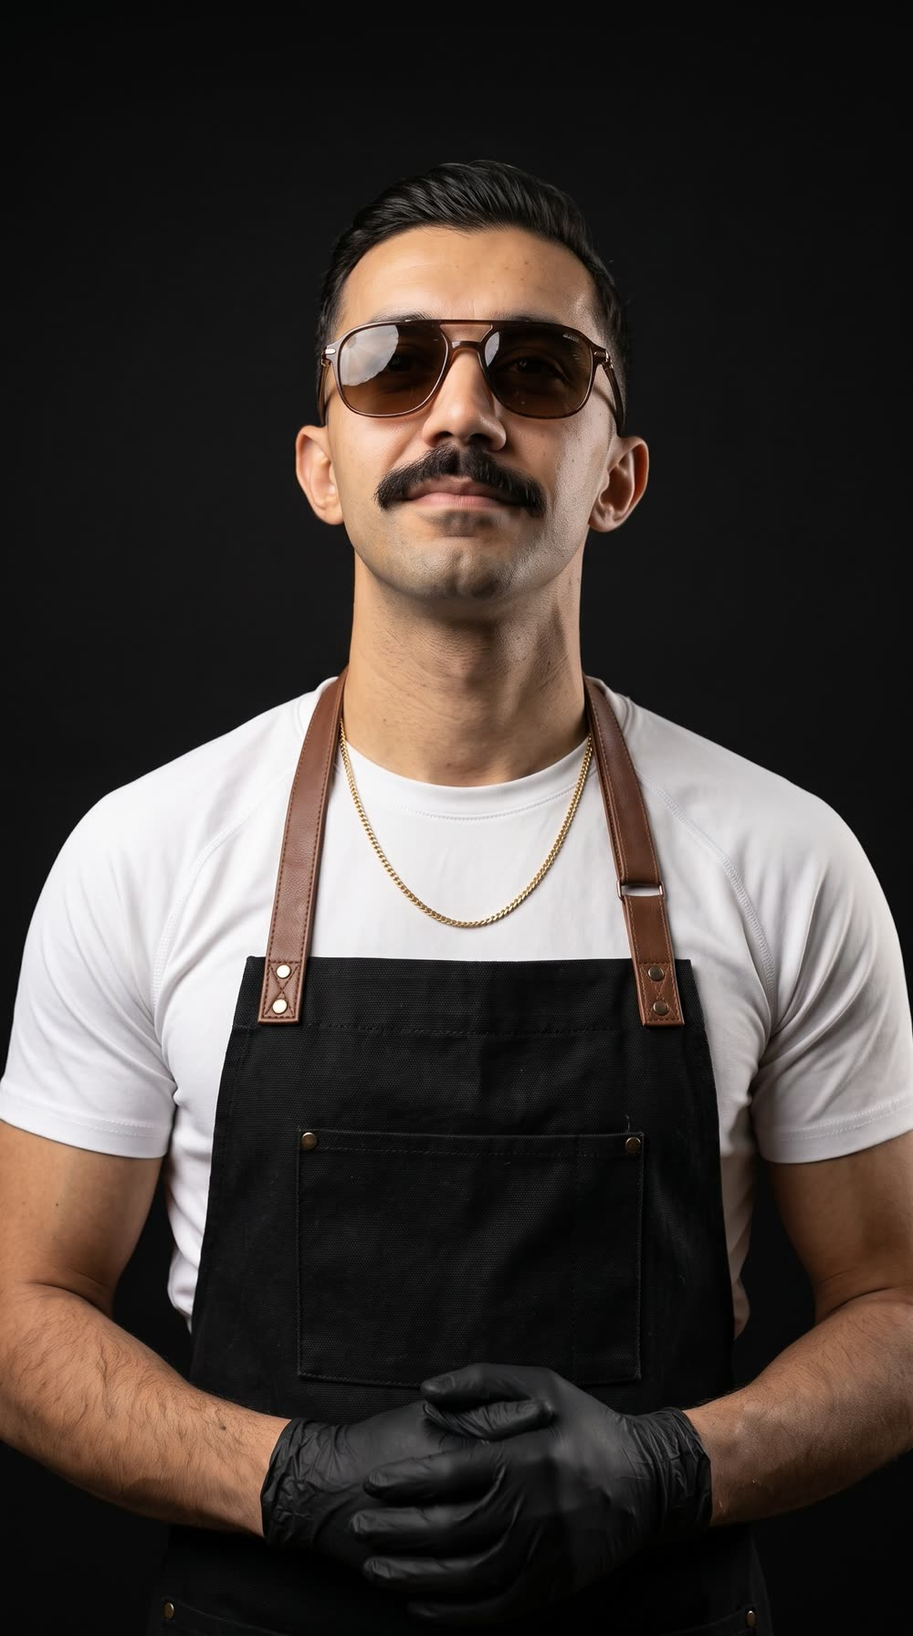
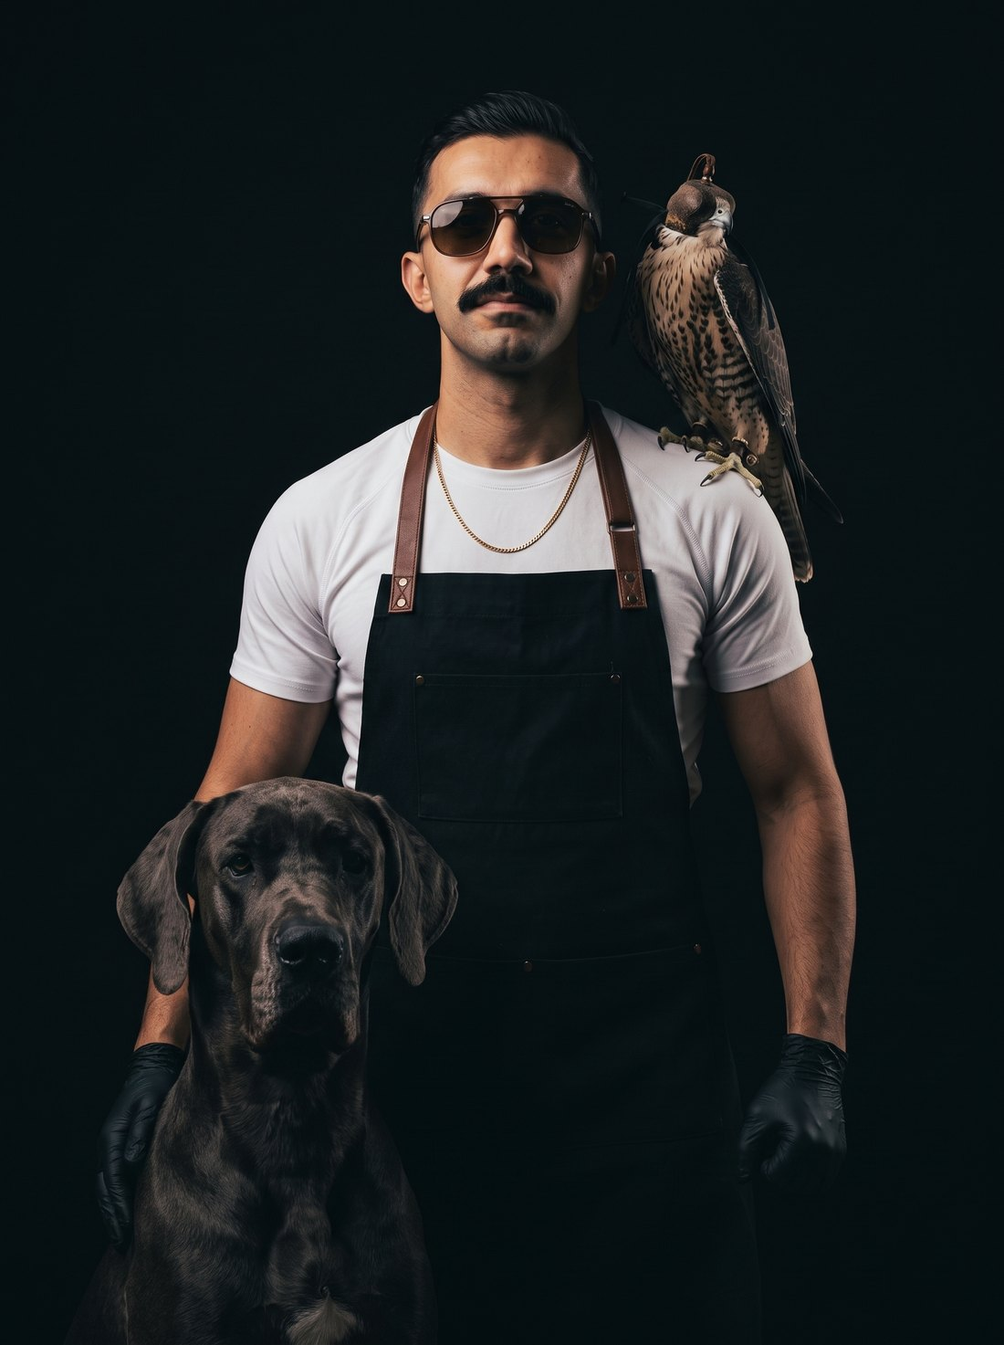
Sell the book with pages from the book
The product carried four plate photographs and a stock cover. A buyer
weighing up a cookbook wants to see a page — the type, the layout, how a
recipe is actually laid out — so the gallery is now five real spreads
rendered out of the PDF: the cover, a main dish, the contents, a side
dish, and the frontispiece.

The chef's portrait was hidden below lg, which left a bare band of
statistics between the headline and the trust row on the phone, where
most of the traffic is. It now shows everywhere, with the new portrait
and a line that says who he is, sitting under the photo on a phone and
over it from sm up.

Counts go to 264 + 100 free, and the format line drops its promise of
EPUB and Arabic: what ships is an English PDF in two editions.

Claude-Session: https://claude.ai/code/session_01TTQeKAFA689qdG4vjzm6Ms

diff --git a/src/i18n/dictionary.ts b/src/i18n/dictionary.ts
@@ -25,14 +25,19 @@ export const dictionary = {
   "hero.title.line1": { ar: "فنّ الطبق", en: "The Art of" },
   "hero.title.line2": { ar: "الاحترافي", en: "The Plate" },
   "hero.subtitle": {
-    ar: "٢٦٠ وصفة مُنسَّقة بعناية، مصوَّرة ومشروحة خطوة بخطوة، من مطبخ محترف إلى مطبخك.",
-    en: "260 curated recipes, photographed and broken down step by step — from a professional kitchen to yours.",
+    ar: "٢٦٤ وصفة مُنسَّقة بعناية، مصوَّرة ومشروحة خطوة بخطوة، من مطبخ محترف إلى مطبخك.",
+    en: "264 curated recipes, photographed and broken down step by step — from a professional kitchen to yours.",
   },
   "hero.cta.primary": { ar: "احصل على النسخة", en: "Get the Codex" },
   "hero.cta.secondary": { ar: "تصفّح المتجر", en: "Browse the Shop" },
   "hero.stat.recipes": { ar: "وصفة منسّقة", en: "Curated recipes" },
   "hero.stat.bonus": { ar: "وصفة سريعة مجاناً", en: "Free quick meals" },
   "hero.stat.readers": { ar: "قارئ حول العالم", en: "Readers worldwide" },
+  "hero.portrait.line": {
+    ar: "كتبتُ ٣٦٤ وصفة كما أطبخها فعلاً — لا كما تُكتب في الكتب.",
+    en: "I wrote 364 recipes the way I actually cook them — not the way books write them.",
+  },
+  "hero.portrait.brand": { ar: "مؤسّس ذا إديبل كودكس · عمّان", en: "Founder of The Edible Codex · Amman" },
   "hero.scroll": { ar: "تابع النزول", en: "Scroll" },
 
   /* ── Value props ── */
@@ -66,10 +71,10 @@ export const dictionary = {
   "featured.eyebrow": { ar: "الإصدار الرئيسي", en: "The Flagship" },
   "featured.title": { ar: "ذا إديبل كودكس", en: "The Edible Codex" },
   "featured.body": {
-    ar: "مجلّد رقمي من ٢٦٠ وصفة مقسّمة إلى فصول: المقبلات، اللحوم، المأكولات البحرية، الصلصات، والتنسيق. مع فصل هدية من ١٠٠ وصفة سريعة تُنجز في ٢٠ دقيقة.",
-    en: "A digital volume of 260 recipes across chapters — starters, meats, seafood, sauces and plating — plus a bonus chapter of 100 quick meals you can finish in 20 minutes.",
+    ar: "مجلّد رقمي من ٢٦٤ وصفة مقسّمة إلى فصول: المقبلات، اللحوم، المأكولات البحرية، الصلصات، والتنسيق. مع فصل هدية من ١٠٠ وصفة سريعة تُنجز في ٢٠ دقيقة.",
+    en: "A digital volume of 264 recipes across chapters — starters, meats, seafood, sauces and plating — plus a bonus chapter of 100 quick meals you can finish in 20 minutes.",
   },
-  "featured.bullet.1": { ar: "٢٦٠ وصفة مع صور نهائية لكل طبق", en: "260 recipes, each with a finished plate photo" },
+  "featured.bullet.1": { ar: "٢٦٤ وصفة مع صور نهائية لكل طبق", en: "264 recipes, each with a finished plate photo" },
   "featured.bullet.2": { ar: "فصل كامل عن الصلصات الملوّنة", en: "A full chapter on signature colour sauces" },
   "featured.bullet.3": { ar: "قوائم تسوّق جاهزة للطباعة", en: "Printable shopping lists" },
   "featured.bullet.4": { ar: "هدية: ١٠٠ وصفة سريعة", en: "Bonus: 100 quick meals" },
@@ -109,7 +114,13 @@ export const dictionary = {
   "product.includes": { ar: "ماذا يتضمّن", en: "What's included" },
   "product.details": { ar: "تفاصيل الإصدار", en: "Edition details" },
   "product.format": { ar: "الصيغة", en: "Format" },
-  "product.formatValue": { ar: "PDF + EPUB · عربي / إنجليزي", en: "PDF + EPUB · Arabic / English" },
+  // The file that actually ships is an English PDF in two editions — the full
+  // one and a lighter one for a phone. Promising EPUB and Arabic was a refund
+  // waiting to happen. ما يُسلَّم فعلاً: PDF بنسختين، كاملة وخفيفة.
+  "product.formatValue": {
+    ar: "PDF · نسخة كاملة + نسخة خفيفة للهاتف",
+    en: "PDF · full edition + a light one for your phone",
+  },
   "product.delivery": { ar: "التسليم", en: "Delivery" },
   "product.deliveryValue": { ar: "رابط تحميل فوري بعد الدفع", en: "Instant download link after payment" },
   "product.guarantee": { ar: "الضمان", en: "Guarantee" },
@@ -173,8 +184,8 @@ export const dictionary = {
   "offer.eyebrow": { ar: "عرض الإطلاق", en: "Launch Offer" },
   "offer.title": { ar: "النسخة الكاملة + الهدية", en: "The Complete Edition + Bonus" },
   "offer.body": {
-    ar: "احصل على ٢٦٠ وصفة مع فصل الـ١٠٠ وصفة السريعة مجاناً، بسعر الإطلاق ولفترة محدودة.",
-    en: "Get all 260 recipes with the 100 quick-meals chapter free, at launch pricing for a limited time.",
+    ar: "احصل على ٢٦٤ وصفة مع فصل الـ١٠٠ وصفة السريعة مجاناً، بسعر الإطلاق ولفترة محدودة.",
+    en: "Get all 264 recipes with the 100 quick-meals chapter free, at launch pricing for a limited time.",
   },
   "offer.cta": { ar: "اطلب الآن", en: "Order now" },
 
@@ -298,10 +309,10 @@ export const dictionary = {
      what a searcher is looking for and closes with the reason to click —
      price, delivery, refund. Kept short enough to survive Google's truncation.
      عناوين مكتوبة لنتيجة البحث لا للصفحة نفسها. */
-  "seo.home.title": { ar: "٢٦٠ وصفة مصوّرة خطوة بخطوة", en: "260 Recipes, Photographed Step by Step" },
+  "seo.home.title": { ar: "٢٦٤ وصفة مصوّرة خطوة بخطوة", en: "264 Recipes, Photographed Step by Step" },
   "seo.home.desc": {
-    ar: "كتاب طبخ رقمي من مطبخ محترف — ٢٦٠ وصفة مصوّرة ومشروحة بالجرام والكوب، مع ١٠٠ وصفة سريعة هدية. تحميل فوري بـ ٩٫٩٩ دولاراً واسترداد خلال ٣٠ يوماً.",
-    en: "A digital cookbook from a professional kitchen — 260 photographed recipes written in grams and cups, plus 100 quick meals free. Instant download for $9.99, 30-day refund.",
+    ar: "كتاب طبخ رقمي من مطبخ محترف — ٢٦٤ وصفة مصوّرة ومشروحة بالجرام والكوب، مع ١٠٠ وصفة سريعة هدية. تحميل فوري بـ ٩٫٩٩ دولاراً واسترداد خلال ٣٠ يوماً.",
+    en: "A digital cookbook from a professional kitchen — 264 photographed recipes written in grams and cups, plus 100 quick meals free. Instant download for $9.99, 30-day refund.",
   },
   "seo.shop.title": { ar: "الكتاب الكامل والصلصات الخمس", en: "The Book & The Five Sauces" },
   "seo.shop.desc": {
@@ -320,8 +331,8 @@ export const dictionary = {
   },
   "seo.about.title": { ar: "الشيف أحمد سلامة", en: "Chef Ahmet Salameh" },
   "seo.about.desc": {
-    ar: "قصة المطبخ الذي وُلد منه ذا إديبل كودكس — من الخدمة اليومية إلى ٢٦٠ وصفة مُختبرة ومصوّرة.",
-    en: "The story of the kitchen behind The Edible Codex — from daily service to 260 tested, photographed recipes.",
+    ar: "قصة المطبخ الذي وُلد منه ذا إديبل كودكس — من الخدمة اليومية إلى ٢٦٤ وصفة مُختبرة ومصوّرة.",
+    en: "The story of the kitchen behind The Edible Codex — from daily service to 264 tested, photographed recipes.",
   },
   "seo.contact.title": { ar: "تواصل معنا", en: "Contact Us" },
   "seo.contact.desc": {

diff --git a/src/data/products.ts b/src/data/products.ts
@@ -1,5 +1,5 @@
 import type { Localized } from "@/i18n/LanguageContext";
-import { brandImages } from "./site";
+import { bookPages, brandImages } from "./site";
 
 export type Product = {
   id: number;
@@ -39,29 +39,34 @@ export const products: Product[] = [
   {
     id: 1,
     slug: "the-edible-codex",
-    title: { ar: "ذا إديبل كودكس — الكتاب الكامل", en: "The Edible Codex — The Book" },
-    subtitle: { ar: "٢٦٠ وصفة منسّقة + ١٠٠ وصفة سريعة هدية", en: "260 curated recipes + 100 quick meals free" },
+    title: { ar: "٢٦٤ وصفة احترافية + ١٠٠ وصفة مجاناً", en: "264 Chef Recipes + 100 Free" },
+    subtitle: { ar: "ذا إديبل كودكس — المجلّد الكامل في ٣٨٩ صفحة", en: "The Edible Codex — the complete 389-page volume" },
     description: {
-      ar: "المجلّد الرقمي الكامل: ٢٦٠ وصفة مقسّمة على تسعة فصول، من المقبلات الباردة إلى اللحوم والمأكولات البحرية والتنسيق. كل وصفة مصوّرة بالطبق النهائي، ومشروحة بمقادير مزدوجة بالجرام والكوب، مع ملاحظات المطبخ التي عادة لا تُكتب في الكتب.",
-      en: "The complete digital volume: 260 recipes across nine chapters, from cold starters through meats, seafood and plating. Every recipe is photographed as a finished plate and written with dual measurements in grams and cups, alongside the kitchen notes books usually leave out.",
+      ar: "المجلّد الرقمي الكامل: ٣٦٤ وصفة في ٣٨٩ صفحة — ٢٦٤ وصفة من المطبخ المحترف، ومعها ١٠٠ وصفة من الوصفات التي اجتاحت الإنترنت، مجاناً. كل وصفة على صفحة واحدة، بصورتها الخاصة، بالمقادير والخطوات وملاحظة الشيف — لا تقليب بين صفحتين وأنت تطبخ.",
+      en: "The complete digital volume: 364 recipes across 389 pages — 264 from a professional kitchen, plus 100 of the internet's most-cooked dishes, free. Every recipe sits on a single page with its own photograph, its measurements, its method and a chef's note — no flipping back and forth while you cook.",
     },
     features: [
-      { ar: "٢٦٠ وصفة مع صورة نهائية لكل طبق", en: "260 recipes, each with a finished plate photo" },
-      { ar: "فصل هدية: ١٠٠ وصفة سريعة خلال ٢٠ دقيقة", en: "Bonus chapter: 100 quick meals in 20 minutes" },
-      { ar: "مقادير بالجرام والكوب معاً", en: "Dual measurements — grams and cups" },
-      { ar: "قوائم تسوّق أسبوعية قابلة للطباعة", en: "Printable weekly shopping lists" },
-      { ar: "صيغة PDF و EPUB · عربي وإنجليزي", en: "PDF and EPUB · Arabic and English" },
-      { ar: "تحديثات مجانية مدى الحياة", en: "Free lifetime updates" },
+      { ar: "٢٦٤ وصفة احترافية + ١٠٠ وصفة مجاناً = ٣٦٤", en: "264 chef recipes + 100 free = 364" },
+      { ar: "صورة خاصة لكل وصفة — ٣٦٤ صورة", en: "Its own photograph for every recipe — 364 in all" },
+      { ar: "كل وصفة كاملة على صفحة واحدة", en: "Every recipe complete on one page" },
+      { ar: "ملاحظة الشيف مع كل وصفة", en: "A chef's note with every recipe" },
+      { ar: "٣٨٩ صفحة · نسخة كاملة ونسخة خفيفة للهاتف", en: "389 pages · full edition and a light one for your phone" },
+      { ar: "تحميل فوري وتحديثات مجانية مدى الحياة", en: "Instant download and free lifetime updates" },
     ],
-    image: brandImages.codexCover,
-    gallery: [brandImages.codexCover, brandImages.chefShrimp, brandImages.chefDuck, brandImages.chefBeef],
+    image: bookPages.cover,
+    gallery: [
+      bookPages.cover,
+      bookPages.recipeMain,
+      bookPages.contents,
+      bookPages.recipeSide,
+      bookPages.frontispiece,
+    ],
     price: 9.99,
     compareAt: 19.99,
     badge: "bestseller",
     rating: 4.9,
     reviews: 812,
     featured: true,
-    focus: "center 60%",
     checkoutUrl: "https://whop.com/c/the-edible-codex-cookbook/codex",
     planId: "plan_em9IY2N3WR5Je",
   },

diff --git a/src/pages/HomePage.tsx b/src/pages/HomePage.tsx
@@ -11,7 +11,7 @@ import { faqs, getProduct, products, testimonials } from "@/data/products";
 import { recipes } from "@/data/recipes";
 import RecipeCard from "@/components/RecipeCard";
 import BuyButton from "@/components/BuyButton";
-import { brandImages, site } from "@/data/site";
+import { bookPages, brandImages, site } from "@/data/site";
 
 const HomePage = () => {
   const { t, L, lang } = useLang();
@@ -89,7 +89,7 @@ const HomePage = () => {
 
             <dl className="mt-12 grid max-w-lg grid-cols-3 gap-6 border-t border-gold/20 pt-8">
               {[
-                { value: "260", label: t("hero.stat.recipes") },
+                { value: "264", label: t("hero.stat.recipes") },
                 { value: "100", label: t("hero.stat.bonus") },
                 { value: "12K+", label: t("hero.stat.readers") },
               ].map((stat) => (
@@ -103,8 +103,11 @@ const HomePage = () => {
             </dl>
           </div>
 
-          {/* Chef portrait in a gold frame */}
-          <div className="relative hidden animate-fade-in-slow lg:block">
+          {/* The chef, in a gold frame — on the phone too, where most of the
+              traffic is. Hiding it below lg left a bare band of statistics
+              between the headline and the trust row.
+              الصورة تظهر على الهاتف أيضاً، حيث يأتي أغلب الزوّار. */}
+          <div className="relative mx-auto w-full max-w-sm animate-fade-in-slow lg:max-w-none">
             <div className="absolute -inset-3 rounded-sm border border-gold/25" aria-hidden="true" />
             <div className="absolute -inset-8 hidden rounded-sm border border-gold/10 lg:block" aria-hidden="true" />
             <img
@@ -113,12 +116,16 @@ const HomePage = () => {
               className="relative aspect-[4/5] w-full rounded-sm object-cover object-top shadow-luxe"
               fetchPriority="high"
             />
-            <div className="absolute bottom-5 start-5 end-5 rounded-sm border border-gold/25 bg-ink/85 px-5 py-4 backdrop-blur-sm">
+            {/* Under the photo on a phone, over it from sm up — the overlay
+                would otherwise sit on Skyline's head.
+                تحت الصورة على الهاتف، وفوقها على الشاشات الأكبر. */}
+            <div className="relative mt-3 rounded-sm border border-gold/25 bg-ink/85 px-5 py-4 backdrop-blur-sm sm:absolute sm:bottom-5 sm:start-5 sm:end-5 sm:mt-0">
               <p className="font-display text-base text-ivory">
                 {lang === "ar" ? site.brand.chefAr : site.brand.chefEn}
               </p>
-              <p className="mt-1 text-[11px] uppercase tracking-[0.14em] text-gold/80">
-                {lang === "ar" ? site.brand.taglineAr : site.brand.taglineEn}
+              <p className="mt-1.5 text-[12px] leading-relaxed text-gold/90">{t("hero.portrait.line")}</p>
+              <p className="mt-2 text-[10px] uppercase tracking-[0.16em] text-ivory/45">
+                {t("hero.portrait.brand")}
               </p>
             </div>
           </div>
@@ -152,7 +159,7 @@ const HomePage = () => {
           <div className="relative order-2 lg:order-1">
             <div className="absolute -inset-4 rounded-sm border border-gold/20" aria-hidden="true" />
             <img
-              src={brandImages.codexCover}
+              src={bookPages.cover}
               alt={L(flagship.title)}
               loading="lazy"
               className="relative w-full rounded-sm object-cover shadow-luxe"

diff --git a/index.html b/index.html
@@ -3,10 +3,10 @@
   <head>
     <meta charset="UTF-8" />
     <meta name="viewport" content="width=device-width, initial-scale=1.0" />
-    <title>٢٦٠ وصفة مصوّرة خطوة بخطوة | ذا إديبل كودكس</title>
+    <title>٢٦٤ وصفة مصوّرة خطوة بخطوة | ذا إديبل كودكس</title>
     <meta
       name="description"
-      content="كتاب طبخ رقمي من مطبخ محترف — ٢٦٠ وصفة مصوّرة ومشروحة بالجرام والكوب، مع ١٠٠ وصفة سريعة هدية. تحميل فوري بـ ٩٫٩٩ دولاراً واسترداد خلال ٣٠ يوماً."
+      content="كتاب طبخ رقمي من مطبخ محترف — ٢٦٤ وصفة مصوّرة ومشروحة بالجرام والكوب، مع ١٠٠ وصفة سريعة هدية. تحميل فوري بـ ٩٫٩٩ دولاراً واسترداد خلال ٣٠ يوماً."
     />
     <meta name="author" content="The Edible Codex" />
     <meta name="theme-color" content="#0B1B33" />
@@ -14,7 +14,7 @@
     <meta property="og:title" content="The Edible Codex | Modern Culinary Adventures" />
     <meta
       property="og:description"
-      content="260 curated recipes, photographed and broken down step by step — from a professional kitchen to yours."
+      content="264 curated recipes, photographed and broken down step by step — from a professional kitchen to yours."
     />
     <meta property="og:type" content="website" />
     <meta property="og:image" content="/brand/logo-square.jpg" />
@@ -72,9 +72,9 @@
           MODERN CULINARY ADVENTURES · مغامرات الطهي الحديثة
         </p>
         <p style="max-width:620px;margin:0 auto 32px;line-height:1.8;color:rgba(247,243,234,.75)">
-          ٢٦٠ وصفة مُنسَّقة، مصوَّرة ومشروحة خطوة بخطوة، من مطبخ محترف إلى مطبخك.
+          ٢٦٤ وصفة مُنسَّقة، مصوَّرة ومشروحة خطوة بخطوة، من مطبخ محترف إلى مطبخك.
           <br />
-          260 curated recipes, photographed and broken down step by step — from a professional kitchen to yours.
+          264 curated recipes, photographed and broken down step by step — from a professional kitchen to yours.
         </p>
 
         <div style="max-width:620px;margin:0 auto;text-align:start">
@@ -83,7 +83,7 @@
           </h2>
 
           <h3 style="margin:24px 0 4px;font-size:18px">ذا إديبل كودكس — الكتاب الكامل · The Edible Codex — The Book</h3>
-          <p style="margin:0 0 6px;color:rgba(247,243,234,.7)">٢٦٠ وصفة منسّقة + ١٠٠ وصفة سريعة هدية · 260 curated recipes + 100 quick meals free</p>
+          <p style="margin:0 0 6px;color:rgba(247,243,234,.7)">٢٦٤ وصفة منسّقة + ١٠٠ وصفة سريعة هدية · 264 curated recipes + 100 quick meals free</p>
           <p style="margin:0 0 10px;color:#C9A227;font-size:20px">$9.99</p>
           <a href="https://whop.com/c/the-edible-codex-cookbook/codex" style="color:#C9A227">اشترِ الآن · Buy now</a>
 

diff --git a/src/data/site.ts b/src/data/site.ts
@@ -103,3 +103,16 @@ export const brandImages = {
   chefBeef: `${base}brand/chef-beef-tenderloin.jpg`,
   codexCover: `${base}brand/edible-codex-cover.jpg`,
 } as const;
+
+/**
+ * صفحات حقيقية من داخل الكتاب — الغلاف، صفحة الافتتاح، الفهرس، ووصفتان.
+ * Real pages lifted out of the book itself. A buyer deciding on a cookbook
+ * wants to see a page, not another photograph of a plate.
+ */
+export const bookPages = {
+  cover: `${base}brand/book/cover.jpg`,
+  frontispiece: `${base}brand/book/frontispiece.jpg`,
+  contents: `${base}brand/book/contents.jpg`,
+  recipeMain: `${base}brand/book/recipe-main.jpg`,
+  recipeSide: `${base}brand/book/recipe-side.jpg`,
+} as const;

diff --git a/src/pages/ProductPage.tsx b/src/pages/ProductPage.tsx
@@ -114,7 +114,7 @@ const ProductPage = () => {
             </div>
 
             {product.gallery.length > 1 && (
-              <div className="mt-4 grid grid-cols-4 gap-3">
+              <div className={`mt-4 grid gap-3 ${product.gallery.length > 4 ? "grid-cols-5" : "grid-cols-4"}`}>
                 {product.gallery.map((image, i) => (
                   <button
                     key={image + i}

diff --git a/src/pages/AboutPage.tsx b/src/pages/AboutPage.tsx
@@ -17,7 +17,7 @@ const AboutPage = () => {
 
   const numbers = [
     { value: "14+", label: t("about.numbers.years") },
-    { value: "260", label: t("about.numbers.recipes") },
+    { value: "264", label: t("about.numbers.recipes") },
     { value: "37", label: t("about.numbers.countries") },
   ];
 
